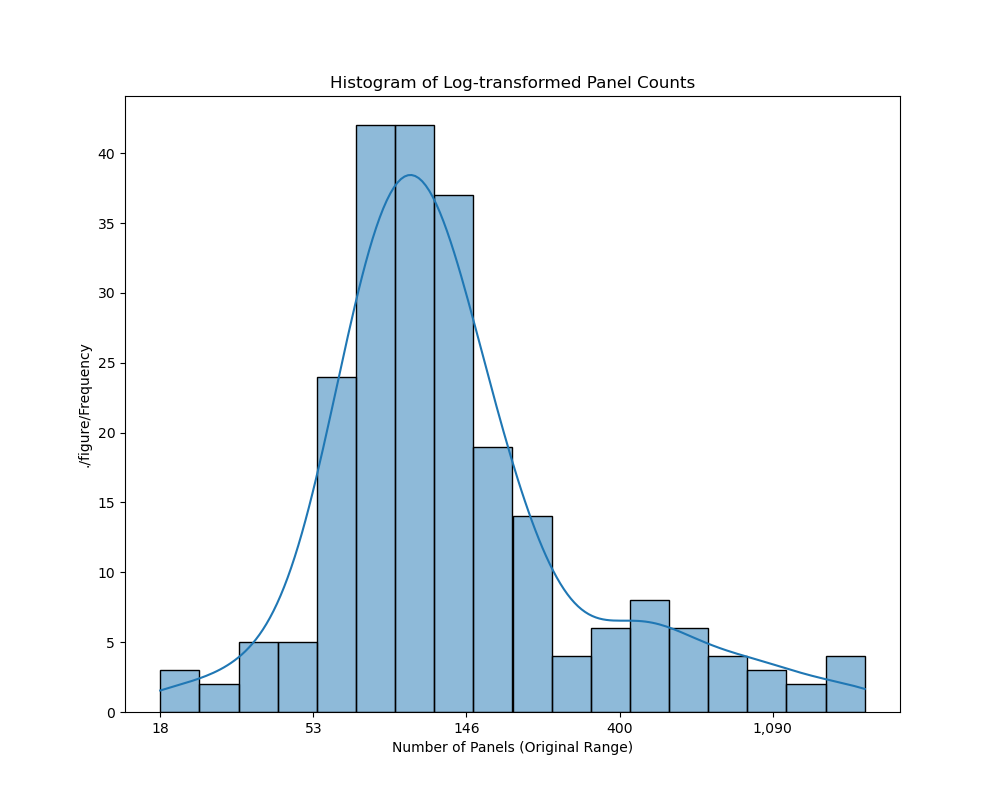
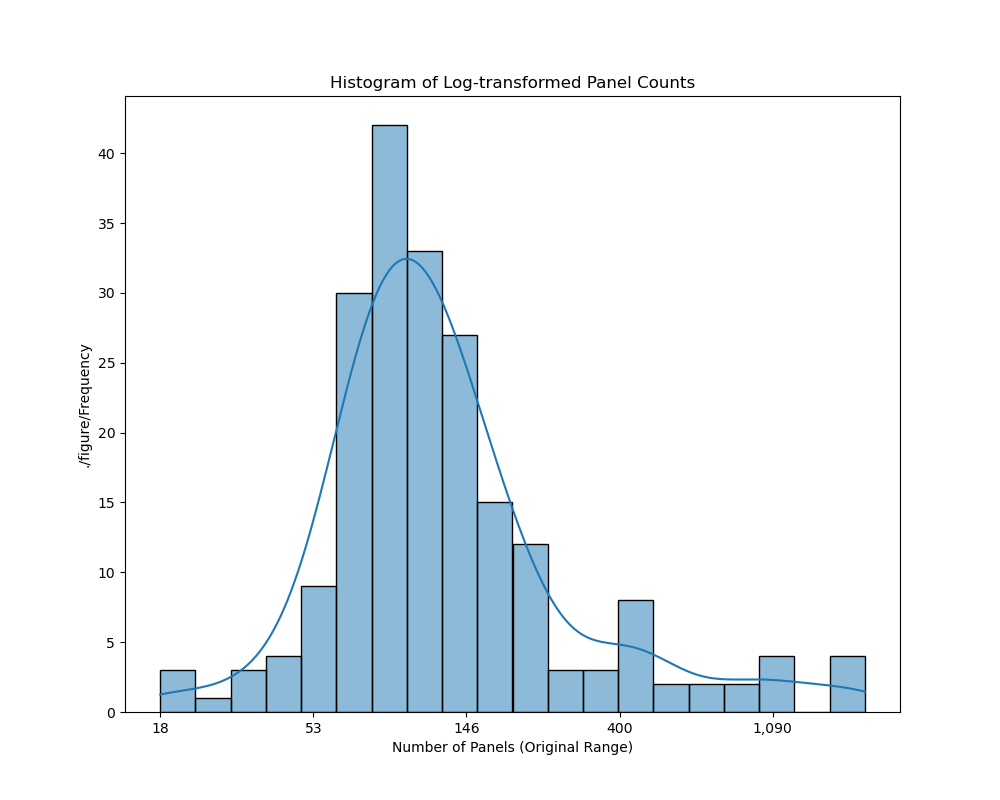
Update the filter for OutputVerificationFlag

Changed region(s): [[0.155, 0.1562, 0.868, 0.9062]]

diff --git a/main.py b/main.py
@@ -178,9 +178,14 @@ def apply_filters_and_save(df):
     # Filter rows with valid NumPanels
     df = df[df["NumPanels"].notnull() & (df["NumPanels"] > 0)]
 
-    # Count flags
+    # Count DataVerificationFlag
     data_verification_count = df["DataVerificationFlag"].sum()
-    output_verification_count = df["OutputVerificationFlag"].sum()
+
+    # Exclude rows with DataVerificationFlag set to 1 from deliverable2
+    df_deliverable2 = df[df["DataVerificationFlag"] == 0].copy()
+
+    # Recalculate OutputVerificationFlag count excluding rows with DataVerificationFlag set to 1
+    output_verification_count = df_deliverable2["OutputVerificationFlag"].sum()
 
     # Define deliverable columns
     deliverable_1_columns = ["Store_Name", "Address", "lat", "lgt", "center_latitude", "center_longitude",
@@ -190,7 +195,7 @@ def apply_filters_and_save(df):
 
     # Create deliverables
     deliverable_1_df = df[deliverable_1_columns]
-    deliverable_2_df = df[deliverable_2_columns]
+    deliverable_2_df = df_deliverable2[deliverable_2_columns]
 
     # Save to CSV
     deliverable_1_df.to_csv(DELIVERABLE_1, index=False)
@@ -201,7 +206,7 @@ def apply_filters_and_save(df):
     print(f"Number of rows with DataVerificationFlag set to 1: {data_verification_count}")
     print(f"Number of rows with OutputVerificationFlag set to 1: {output_verification_count}")
     print(f"Processing completed! Results saved to {DELIVERABLE_1} and {DELIVERABLE_2}")
-    
+
 
 # Main execution
 if __name__ == "__main__":

diff --git a/README.md b/README.md
@@ -28,9 +28,9 @@ This tool processes address data, retrieves geolocation information, and gathers
   - Flagged rows where differences in latitude/longitude exceed a threshold (**0.0005**).
   - Flagged rows where solar panels are outside the range (**10 to 2000**).
 - Filtering results:
-  - **Dropped 4 rows with no solar panels (original: 266 rows → final: 262 rows).**
-  - **33 rows in `deliverable1.csv` flagged for abnormal latitude/longitude.**
-  - **32 rows in `deliverable2.csv` flagged for abnormal solar panel counts.**
+  - **4 rows with no solar panels (original: 266 rows → final: 262 rows).**
+  - **33 rows have abnormal latitude/longitude (from: 262 rows → to: 229).**
+  - **22 rows have abnormal solar panel counts (from: 229 rows → to: 207).**
 
 ## Visualizations
 The `demo.py` script generates the following visualizations:
@@ -47,16 +47,17 @@ The `demo.py` script generates the following visualizations:
   ![Scatter Plot Matrix of Solar Panel Metrics](./figure/Pair_Plot.png)
 
 ## Descriptive Statistics
-| Statistic | NumPanels   | YearlyEnergy       | SolarArea     |
-|-----------|-------------|--------------------|---------------|
-| Count     | 230.000000  | 2.300000e+02      | 230.000000    |
-| Mean      | 212.213043  | 1.251063e+05      | 416.691951    |
-| Std       | 303.344966  | 1.836664e+05      | 595.634477    |
-| Min       | 19.000000   | 8.589278e+03      | 37.307540     |
-| 25%       | 81.250000   | 4.688055e+04      | 159.538830    |
-| 50%       | 114.000000  | 6.727839e+04      | 223.845260    |
-| 75%       | 180.750000  | 1.037875e+05      | 354.912550    |
-| Max       | 1992.000000 | 1.268119e+06      | 3911.401400   |
+
+| Statistic | NumPanels | YearlyEnergy | SolarArea |
+|-----------|-----------|--------------|-----------|
+| Count     | 207       | 207          | 207       |
+| Mean      | 199.57    | 117080.32    | 391.87    |
+| Std       | 302.14    | 182374.91    | 593.27    |
+| Min       | 19        | 8589.27      | 37.31     |
+| 25%       | 80        | 45869.46     | 157.08    |
+| 50%       | 112       | 65095.88     | 219.92    |
+| 75%       | 163.5     | 99911.24     | 321.04    |
+| Max       | 1992      | 1268119.35   | 3911.40   |
 
 ## Requirements
 - Python 3.x
